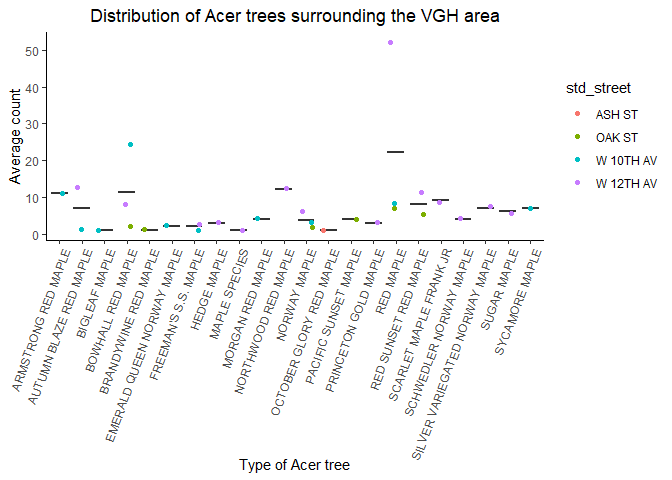
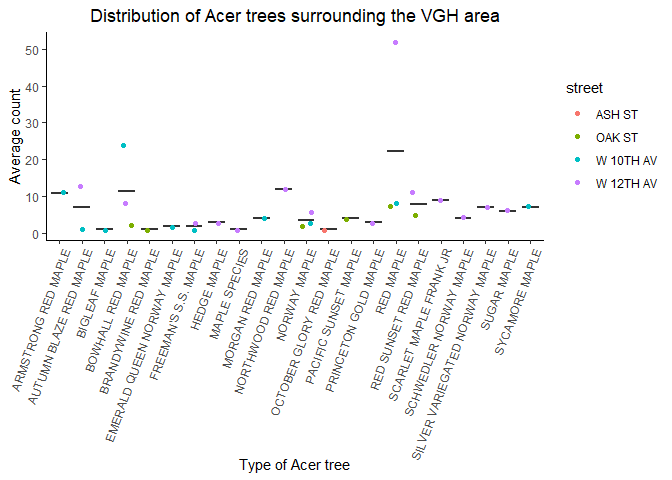
Fixed legend title on boxplot

diff --git a/mini_data_analysis.md b/mini_data_analysis.md
@@ -600,6 +600,8 @@ trees with a boxplot, while also specifying how many counts belong to
 each of the four major streets with an overlaid jitter plot.
 
 ``` r
+# since legend was made based on colour aesthetic in geom_jitter, match with scale_colour_discrete to change the legend title
+
 VanTrees4BoxPlot %>%
   ggplot() +
   geom_boxplot(aes(x = common_name, y = avg_count)) +
@@ -608,7 +610,7 @@ VanTrees4BoxPlot %>%
   labs(y = "Average count",
        x = "Type of Acer tree",
        title = "Distribution of Acer trees surrounding the VGH area") +
-  scale_fill_discrete(name = "street") + # line not working
+  scale_colour_discrete(name = "street") + 
   theme_classic() +
   theme(plot.title = element_text(hjust = 0.5)) +
   theme(axis.text.x = element_text(angle = 70, vjust = 1, hjust=1))
